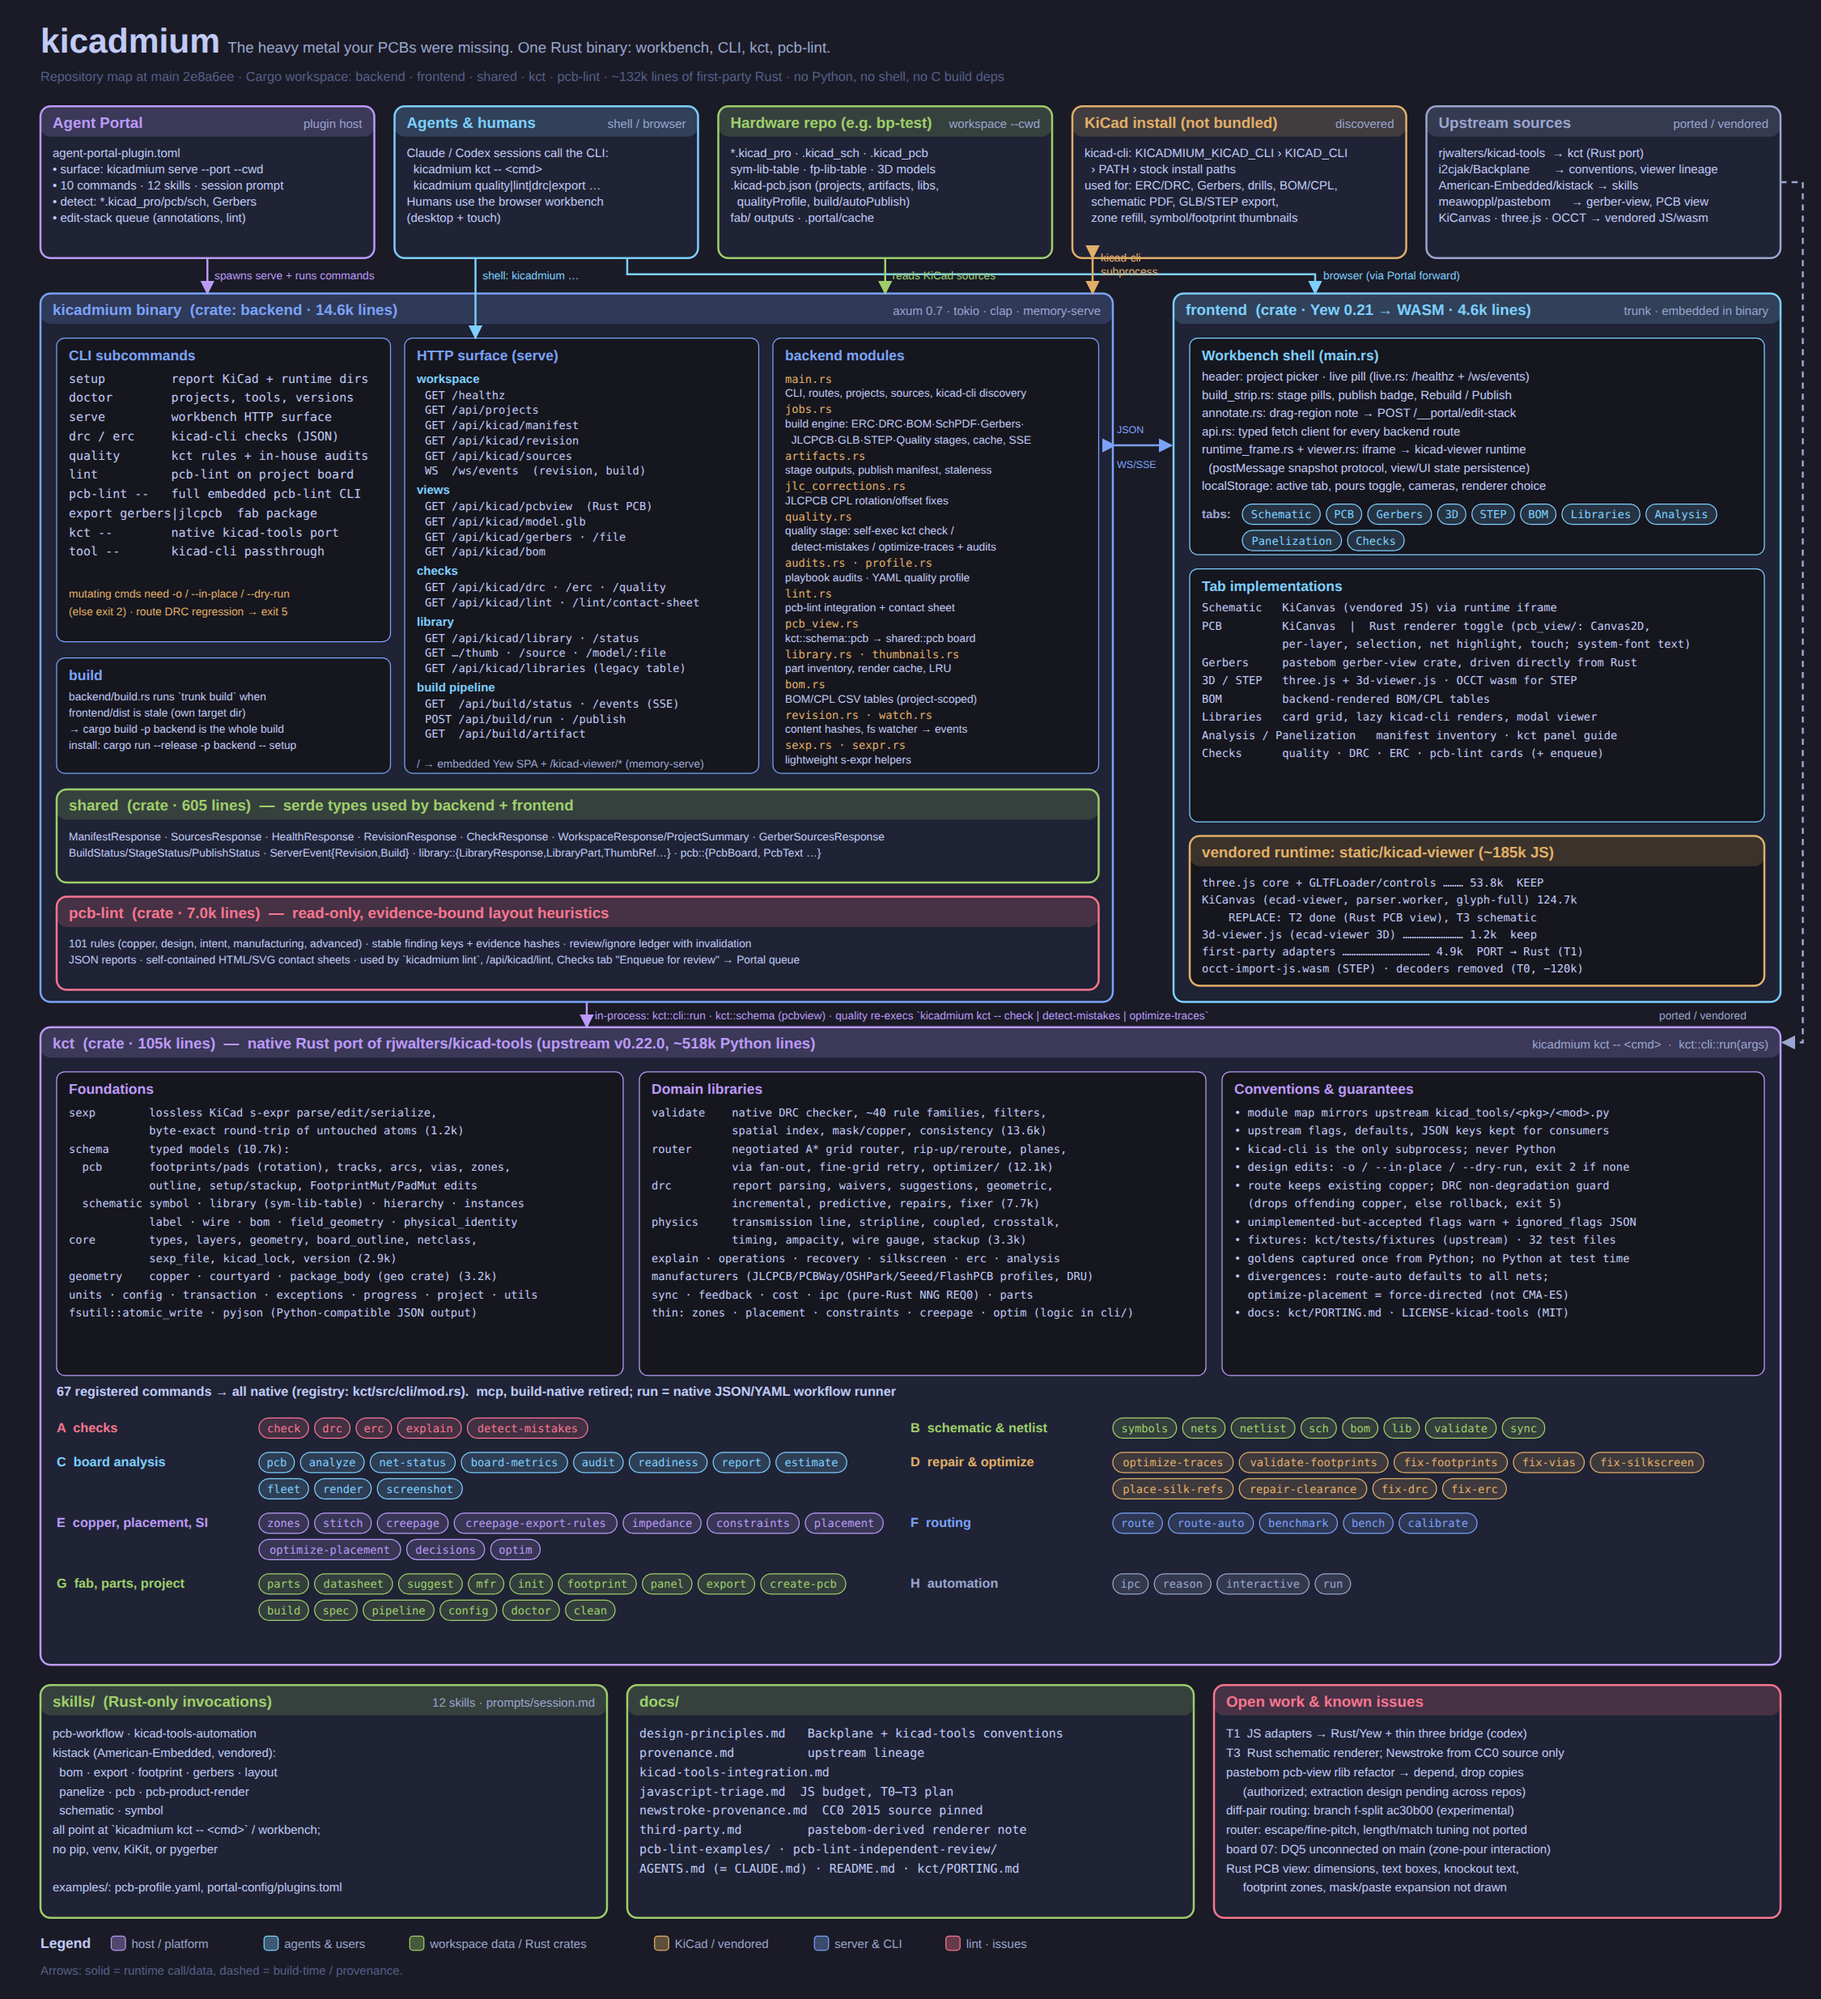
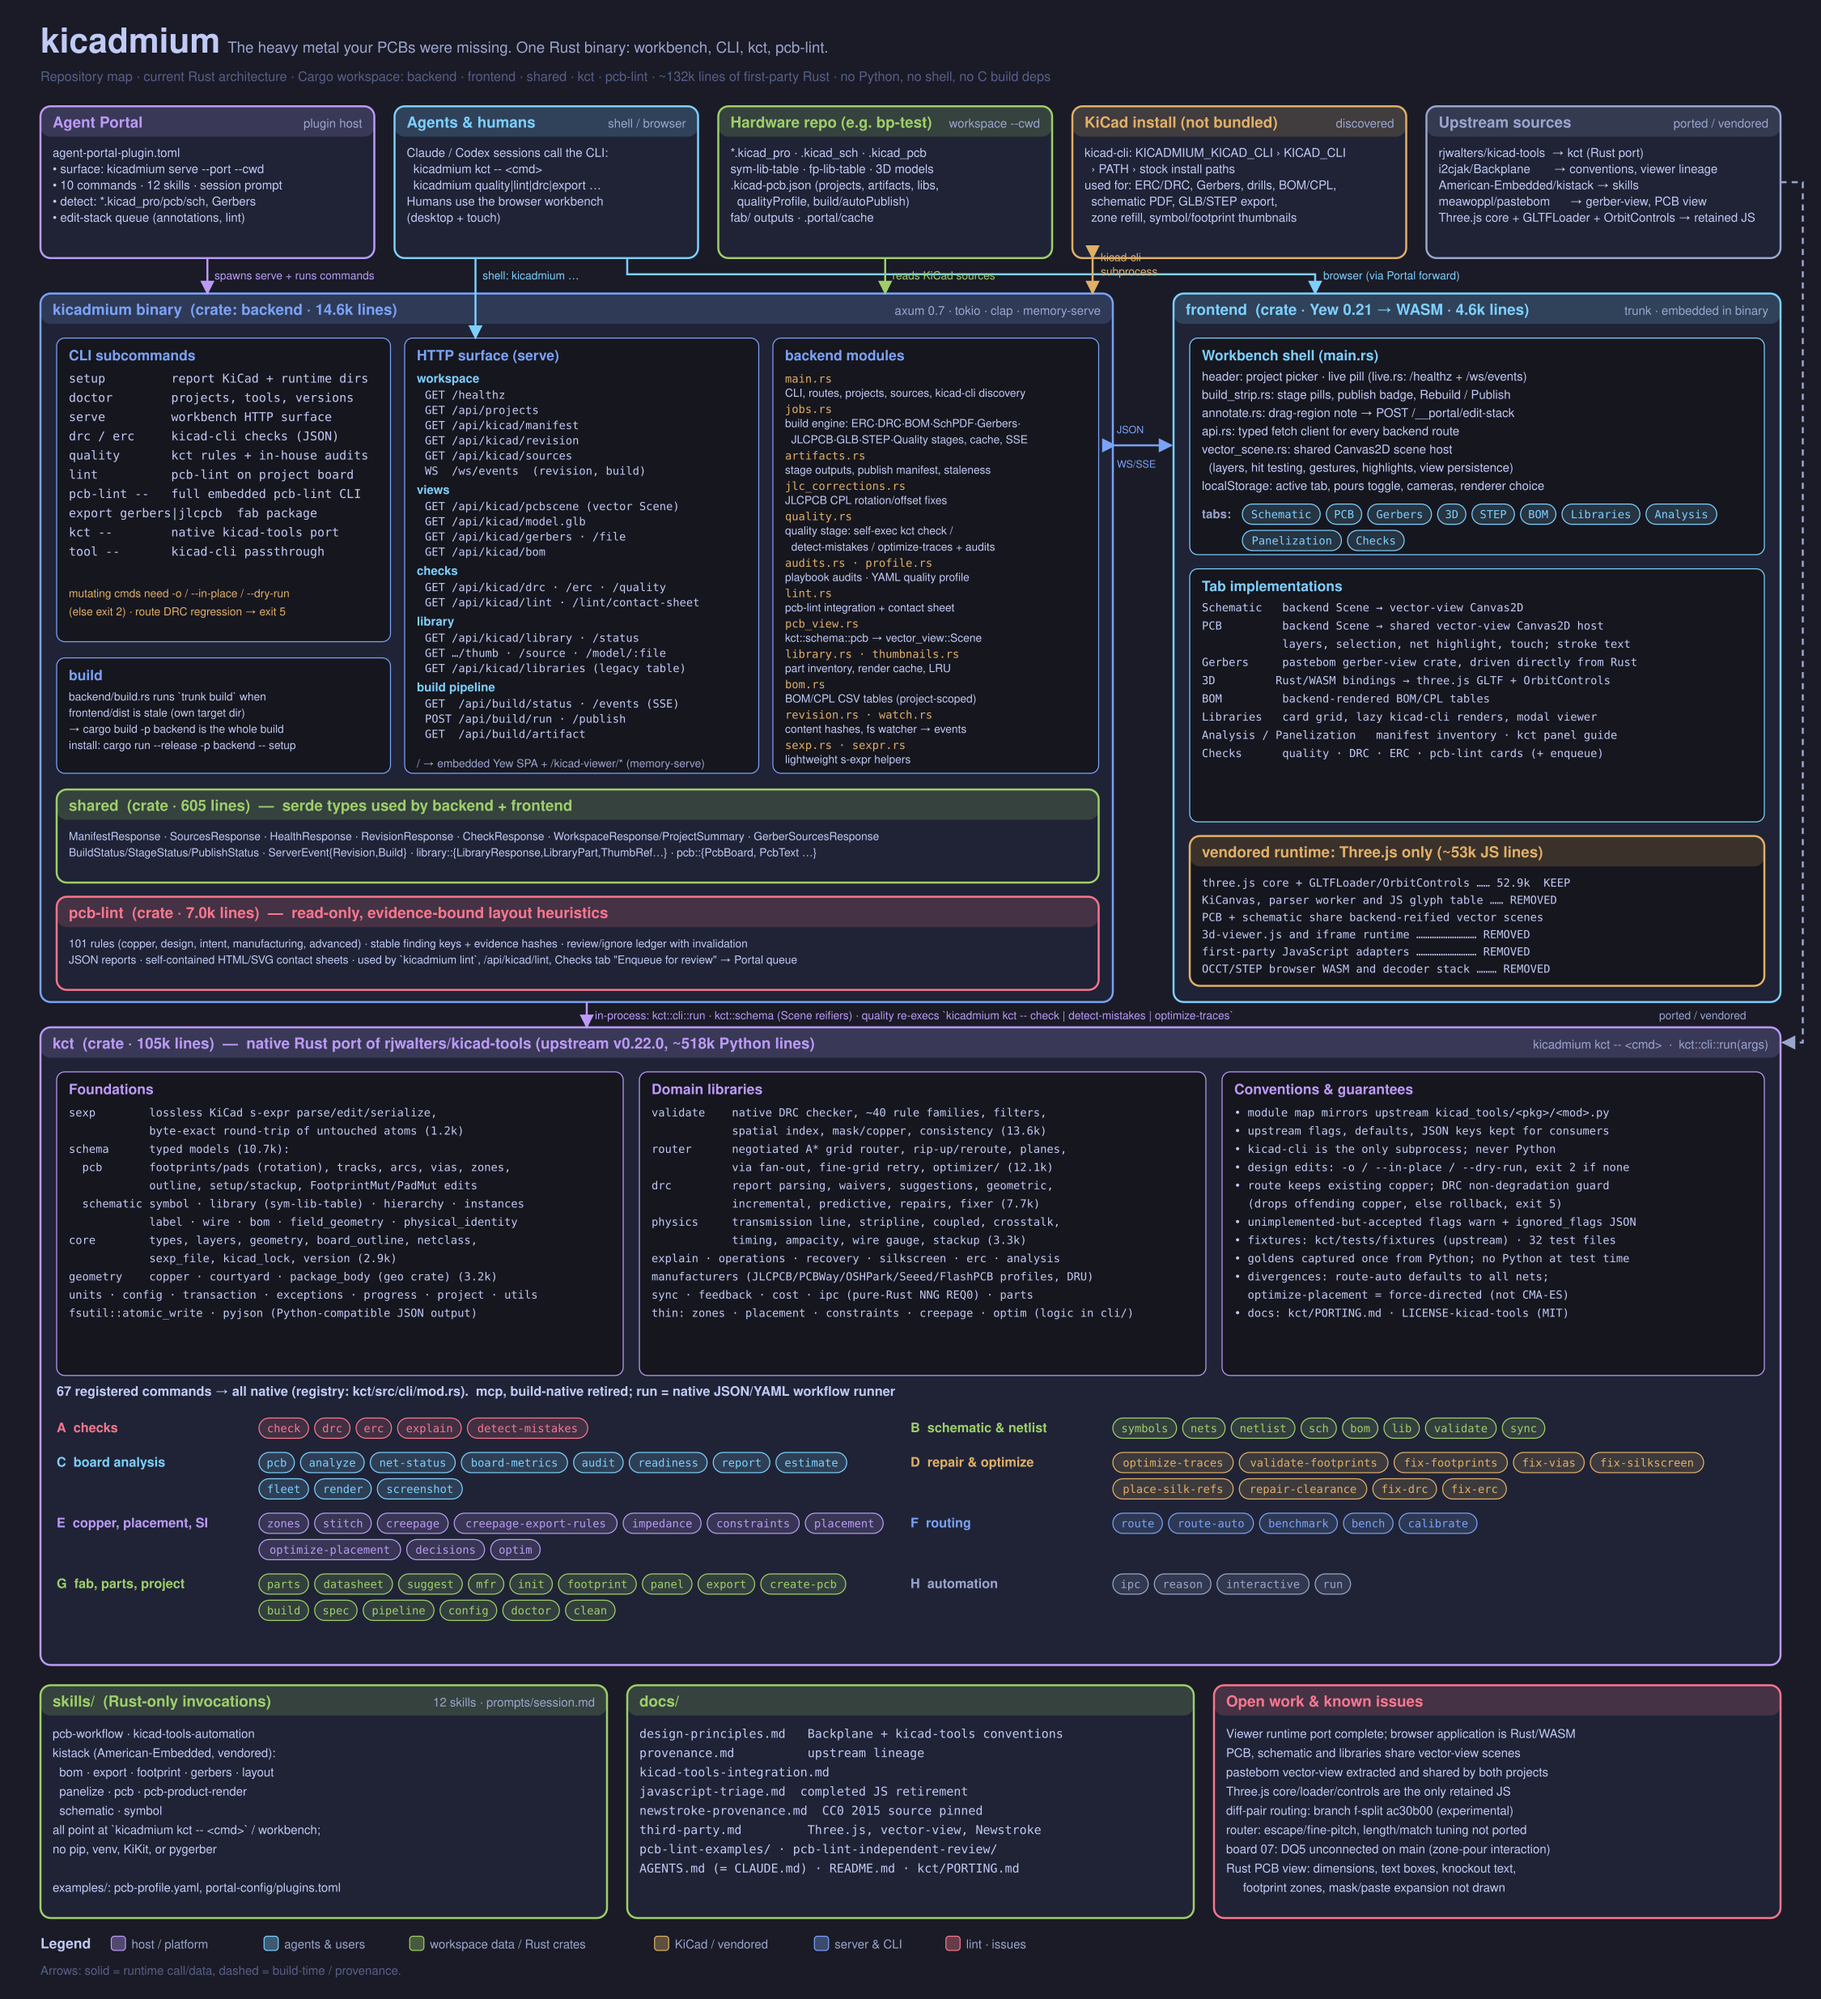
Refresh architecture diagram after runtime retirement

diff --git a/kicadmium/README.md b/kicadmium/README.md
@@ -5,7 +5,7 @@
 Cadmium is a heavy metal; kicadmium is the one your boards needed. It reads
 your whole board, tells you your vias are ugly, and it's right. kicadmium is a
 single Rust binary that wraps a real KiCad install with a browser workbench
-(schematic, PCB, Gerbers, 3D/STEP, BOM, libraries, checks), fabrication export,
+(schematic, PCB, Gerbers, 3D, BOM, libraries, checks), fabrication export,
 layout-quality audits, and a pile of agent skills. It does not ship KiCad.
 Bring your own and turn it up.
 
